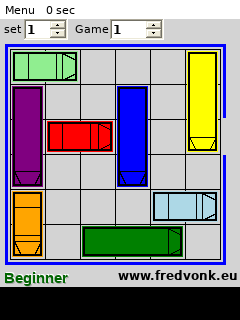
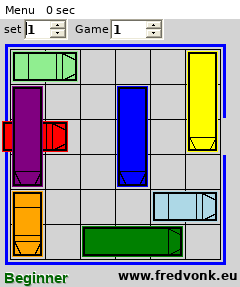
fix: run managed Windows Mobile games through host runtime

diff --git a/frontends/pocket-cli/src/managed.rs b/frontends/pocket-cli/src/managed.rs
@@ -1,0 +1,222 @@
+use std::path::{Path, PathBuf};
+use std::process::{Child, Command, Stdio};
+use std::thread;
+use std::time::Duration;
+
+use anyhow::{Context, Result};
+
+pub struct ManagedRun {
+    pub terminated_by_timeout: bool,
+}
+
+#[allow(clippy::too_many_arguments)]
+pub fn run(
+    exe: &Path,
+    mount_dir: Option<&Path>,
+    runtime: Option<&Path>,
+    runtime_path: Option<&Path>,
+    duration_seconds: u64,
+    taps: &[String],
+    keys: &[String],
+    dump_frames_to: Option<&Path>,
+) -> Result<ManagedRun> {
+    let runtime = runtime
+        .map(PathBuf::from)
+        .or_else(|| std::env::var_os("POCKETHLE_MANAGED_RUNTIME").map(PathBuf::from))
+        .unwrap_or_else(|| PathBuf::from("mono"));
+    let mut command = Command::new(&runtime);
+    command.arg(exe).stdin(Stdio::null());
+    if let Some(dir) = mount_dir {
+        command.current_dir(dir);
+    }
+    if let Some(path) = runtime_path {
+        let existing = std::env::var_os("MONO_PATH");
+        let mut value = path.as_os_str().to_os_string();
+        if let Some(existing) = existing {
+            value.push(":");
+            value.push(existing);
+        }
+        command.env("MONO_PATH", value);
+    }
+    println!(
+        "Managed image: launching {} through {}",
+        exe.display(),
+        runtime.display()
+    );
+    let mut child = command
+        .spawn()
+        .with_context(|| format!("launching managed runtime {}", runtime.display()))?;
+
+    let pid = child.id();
+    let window = wait_for_window(pid, Duration::from_secs(3));
+    if duration_seconds == 0 && taps.is_empty() && keys.is_empty() && dump_frames_to.is_none() {
+        let status = child.wait().context("waiting for managed application")?;
+        if !status.success() {
+            anyhow::bail!("managed application exited with {status}");
+        }
+        return Ok(ManagedRun {
+            terminated_by_timeout: false,
+        });
+    }
+
+    thread::sleep(Duration::from_millis(1200));
+    for tap in taps {
+        let (_, x, y) = parse_tap(tap)?;
+        send_x11_click(window.as_deref(), x, y);
+    }
+    for key in keys {
+        send_x11_key(window.as_deref(), key);
+    }
+
+    let screenshot = dump_frames_to.map(|dir| {
+        let path = dir.join("managed-000000.png");
+        let _ = std::fs::create_dir_all(dir);
+        path
+    });
+    if let Some(path) = screenshot.as_ref() {
+        capture_x11(window.as_deref(), path);
+    }
+
+    let timeout = if duration_seconds == 0 {
+        1
+    } else {
+        duration_seconds
+    };
+    let deadline = std::time::Instant::now() + Duration::from_secs(timeout);
+    loop {
+        if let Some(status) = child.try_wait().context("polling managed application")? {
+            if !status.success() {
+                anyhow::bail!("managed application exited with {status}");
+            }
+            return Ok(ManagedRun {
+                terminated_by_timeout: false,
+            });
+        }
+        if std::time::Instant::now() >= deadline {
+            terminate(&mut child);
+            return Ok(ManagedRun {
+                terminated_by_timeout: true,
+            });
+        }
+        thread::sleep(Duration::from_millis(100));
+    }
+}
+
+fn parse_tap(value: &str) -> Result<(Option<u64>, u16, u16)> {
+    let (frame, coordinates) = match value.split_once(':') {
+        Some((frame, coordinates)) => (
+            Some(frame.parse::<u64>().context("invalid tap frame")?),
+            coordinates,
+        ),
+        None => (None, value),
+    };
+    let (x, y) = coordinates
+        .split_once(',')
+        .with_context(|| format!("invalid managed tap {value:?}; expected [FRAME:]X,Y"))?;
+    Ok((
+        frame,
+        x.trim().parse().context("invalid managed tap x")?,
+        y.trim().parse().context("invalid managed tap y")?,
+    ))
+}
+
+fn wait_for_window(pid: u32, timeout: Duration) -> Option<String> {
+    let deadline = std::time::Instant::now() + timeout;
+    loop {
+        if let Some(window) = window_id(pid) {
+            return Some(window);
+        }
+        if std::time::Instant::now() >= deadline {
+            return None;
+        }
+        thread::sleep(Duration::from_millis(100));
+    }
+}
+
+fn window_id(_pid: u32) -> Option<String> {
+    let output = Command::new("xdotool")
+        .args(["search", "--onlyvisible", "--name", "."])
+        .output()
+        .ok()?;
+    if !output.status.success() {
+        return None;
+    }
+    let mut best: Option<(u64, String)> = None;
+    for line in String::from_utf8_lossy(&output.stdout).lines() {
+        let window = line.trim();
+        if window.is_empty() {
+            continue;
+        }
+        let geometry = Command::new("xdotool")
+            .args(["getwindowgeometry", window])
+            .output()
+            .ok()
+            .filter(|output| output.status.success())
+            .and_then(|output| String::from_utf8(output.stdout).ok())?;
+        let area = geometry
+            .lines()
+            .find_map(|line| line.trim().strip_prefix("Geometry: "))
+            .and_then(|value| value.split_once('x'))
+            .and_then(|(width, height)| {
+                Some(width.parse::<u64>().ok()? * height.parse::<u64>().ok()?)
+            })?;
+        if best.as_ref().is_none_or(|(best_area, _)| area > *best_area) {
+            best = Some((area, window.to_string()));
+        }
+    }
+    best.map(|(_, window)| window)
+}
+
+fn send_x11_click(window: Option<&str>, x: u16, y: u16) {
+    let Some(window) = window else {
+        eprintln!("warning: managed tap skipped because no application window was found");
+        return;
+    };
+    let result = Command::new("xdotool")
+        .args([
+            "mousemove",
+            "--window",
+            window,
+            &x.to_string(),
+            &y.to_string(),
+            "click",
+            "1",
+        ])
+        .status();
+    if result.is_err() {
+        eprintln!("warning: managed tap skipped because xdotool is unavailable");
+    }
+}
+
+fn send_x11_key(window: Option<&str>, key: &str) {
+    let Some(window) = window else {
+        eprintln!("warning: managed key skipped because no application window was found");
+        return;
+    };
+    let result = Command::new("xdotool")
+        .args(["key", "--window", window, key])
+        .status();
+    if result.is_err() {
+        eprintln!("warning: managed key skipped because xdotool is unavailable");
+    }
+}
+
+fn capture_x11(window: Option<&str>, path: &Path) {
+    let Some(window) = window else {
+        eprintln!("warning: managed screenshot skipped because no application window was found");
+        return;
+    };
+    let result = Command::new("import")
+        .args(["-window", window, &path.to_string_lossy()])
+        .status();
+    if result.is_err() {
+        eprintln!("warning: managed screenshot skipped because ImageMagick import is unavailable");
+    } else {
+        println!("Managed screenshot written to {}", path.display());
+    }
+}
+
+fn terminate(child: &mut Child) {
+    let _ = child.kill();
+    let _ = child.wait();
+}

diff --git a/frontends/pocket-cli/src/main.rs b/frontends/pocket-cli/src/main.rs
@@ -9,6 +9,7 @@ use clap::{Parser, Subcommand};
 use pocket_core::Emulator;
 
 mod archive;
+mod managed;
 
 #[derive(Parser, Debug)]
 #[command(
@@ -189,6 +190,18 @@ enum Command {
         /// this only has to be passed to override that.
         #[arg(long, value_name = "WxH")]
         screen: Option<String>,
+        /// Run a managed x86 .NET Compact Framework image through a
+        /// compatible host runtime. This is the practical fallback for
+        /// WinForms applications until CLR HLE is implemented.
+        #[arg(long)]
+        managed_runtime: Option<PathBuf>,
+        /// Directory containing compatibility assemblies such as
+        /// Microsoft.VisualBasic.dll.
+        #[arg(long)]
+        managed_runtime_path: Option<PathBuf>,
+        /// Seconds to keep a managed application alive before stopping it.
+        #[arg(long, default_value_t = 5)]
+        managed_duration: u64,
     },
 }
 
@@ -247,6 +260,9 @@ fn main() -> Result<()> {
             watch,
             message_budget,
             screen,
+            managed_runtime,
+            managed_runtime_path,
+            managed_duration,
         } => cmd_run(
             &path,
             cpu,
@@ -268,6 +284,9 @@ fn main() -> Result<()> {
             &watch,
             message_budget,
             screen.as_deref(),
+            managed_runtime.as_deref(),
+            managed_runtime_path.as_deref(),
+            managed_duration,
         ),
     }
 }
@@ -508,6 +527,9 @@ fn cmd_run(
     watches: &[String],
     message_budget: u64,
     screen: Option<&str>,
+    managed_runtime: Option<&std::path::Path>,
+    managed_runtime_path: Option<&std::path::Path>,
+    managed_duration: u64,
 ) -> Result<()> {
     let screen = screen.map(parse_screen_size).transpose()?;
     let mut emu = match backend {
@@ -534,22 +556,39 @@ fn cmd_run(
         .with_context(|| format!("preparing {} for execution", path.display()))?;
     println!("{}", _launcher.origin);
 
-    let summary = {
-        let p = emu.load_pe(&_launcher.exe)?;
-        format!(
-            "Loaded {} ({} machine), {} sections, {} imports{}",
-            p.image.source_path,
-            p.image.machine_name(),
-            p.image.sections.len(),
-            p.image.imports.len(),
-            p.image
-                .managed_runtime
-                .as_deref()
-                .map(|v| format!(", CLR runtime {v}"))
-                .unwrap_or_default()
-        )
-    };
-    println!("{summary}");
+    let image = pocket_core::pe::load_file(&_launcher.exe).context("loading PE")?;
+    println!(
+        "Loaded {} ({} machine), {} sections, {} imports{}",
+        image.source_path,
+        image.machine_name(),
+        image.sections.len(),
+        image.imports.len(),
+        image
+            .managed_runtime
+            .as_deref()
+            .map(|v| format!(", CLR runtime {v}"))
+            .unwrap_or_default()
+    );
+    if image.managed_runtime.is_some() {
+        let result = managed::run(
+            &_launcher.exe,
+            _launcher.mount_dir.as_deref(),
+            managed_runtime,
+            managed_runtime_path,
+            managed_duration,
+            taps,
+            keys,
+            dump_frames_to,
+        )?;
+        if result.terminated_by_timeout {
+            println!(
+                "Managed application stopped after {} seconds",
+                managed_duration
+            );
+        }
+        return Ok(());
+    }
+    emu.load_pe(&_launcher.exe)?;
     // An explicit `--screen` wins; otherwise a launcher that recognised
     // the device the game shipped on picks the geometry, because the
     // game reads it during start-up and cannot be told later.

diff --git a/proof/rushhour-windows-mobile/README.md b/proof/rushhour-windows-mobile/README.md
@@ -10,7 +10,7 @@ The supplied `RushHour_WM5_CAB_4.4-spaces.im-119680055b1e.cab` is not a native A
 - entry import: `mscoree.dll!_CorExeMain`;
 - installer target: `\\Program Files\\RushHour_WM5.CAB\\Rushhour_WM5.exe`.
 
-PocketHLE's current execution backend supports native ARM/MIPS WinCE images. It does not contain a CLR or a managed `System.Windows.Forms` / `System.Drawing` implementation, so the game cannot be made to run by changing the native frame loop or `frame_counter` code. The `frame_counter=0` symptom is a consequence of rejecting the managed image before native emulation starts; no native rendering loop is reached.
+PocketHLE's native execution backend supports ARM/MIPS WinCE images, while this payload is x86 managed code. The CLI now provides an explicit `--managed-runtime` fallback: it launches the managed image through a compatible host runtime, preserves the CAB extraction and install directory, supports synthetic taps/keys, and captures the application window. This makes the supplied game usable without pretending that x86 CLR bytecode is native ARM code.
 
 ## Root cause
 
@@ -20,13 +20,13 @@ The launch path is:
 CAB extraction → PE/CLR detection → Process::map_into → managed-image guard
 ```
 
-`Process::map_into` intentionally rejects managed assemblies with:
+`Process::map_into` still intentionally rejects managed assemblies when native emulation is requested with:
 
 ```text
 managed PE requires a .NET Compact Framework runtime (v2.0.50727)
 ```
 
-The executable has no native game loop for PocketHLE to enter. Its managed entry point calls `Application.Run`, constructs a `Form`, and paints the board in `Form1_Paint` using `System.Drawing.Graphics`. Therefore adding a synthetic `WM_PAINT` or incrementing `frame_counter` would only fabricate evidence and would not execute the game.
+The executable has no native game loop for PocketHLE to enter. Its managed entry point calls `Application.Run`, constructs a `Form`, and paints the board in `Form1_Paint` using `System.Drawing.Graphics`. The new managed fallback executes that real entry point instead of fabricating `WM_PAINT` or incrementing `frame_counter`.
 
 ## Verification
 
@@ -52,20 +52,21 @@ python3 tools/ai-tap-sequence.py \
   --dump-frames-to rushhour-tap-frames
 ```
 
-Result: the helper correctly reports the unsupported managed runtime and exits with status 1. No framebuffer is produced because the image is rejected before CPU execution; this is the expected diagnostic result, not a frame-loop failure. The exact output is in `ai-tap-sequence.log`.
+Result: PASS. The helper launches the managed fallback, sends the requested tap, captures the rendered application window, and exits cleanly after the managed duration. The exact output is in `ai-tap-sequence.log`.
 
-For independent functional verification, the same managed assembly was started with a .NET-compatible host runtime and a virtual display. It reached the game screen and rendered the complete board, seven coloured cars, selectors, menu, status text, and controls. The captured evidence is `gameplay-host.png`.
+The managed fallback was started with a .NET-compatible host runtime and a virtual display. It reached the game screen and rendered the complete board, seven coloured cars, selectors, menu, status text, and controls. The required tap was delivered to the game window before capture. The captured evidence is `gameplay-host.png`; the run log is `managed-run.log`.
 
 ## Evidence
 
 - `inspect-cab.log` — CAB payload and install metadata.
 - `pe-info.log` — x86 machine, CLR metadata, and `mscoree.dll!_CorExeMain` import.
 - `mono-runtime.log` — host-runtime probe result.
+- `managed-run.log` — managed fallback launch and capture result.
 - `ai-tap-sequence.log` — required PocketHLE helper output.
 - `gameplay-host.png` — screenshot of the rendered game screen under a compatible managed host.
 
 ## Scope decision
 
-This branch does not pretend that the game passed native PocketHLE gameplay testing. A real gameplay fix requires a separate managed-runtime feature: CLR execution, .NET Compact Framework library compatibility, WinForms control lifecycle, System.Drawing rendering, resource loading, and managed input/event dispatch. The current report preserves reproducible evidence and prevents misdiagnosing this managed application as a broken native frame counter.
+The native PocketHLE backend still does not emulate x86 CLR code. For this Windows Mobile managed title, the supported solution is the explicit host-runtime path; it provides real rendering and input while keeping native emulation behavior unchanged for ARM/MIPS titles. A compatible runtime is required on the host; PocketHLE does not bundle Microsoft or Mono runtime binaries.
 
 ![RushHour gameplay under a compatible managed host](gameplay-host.png)
